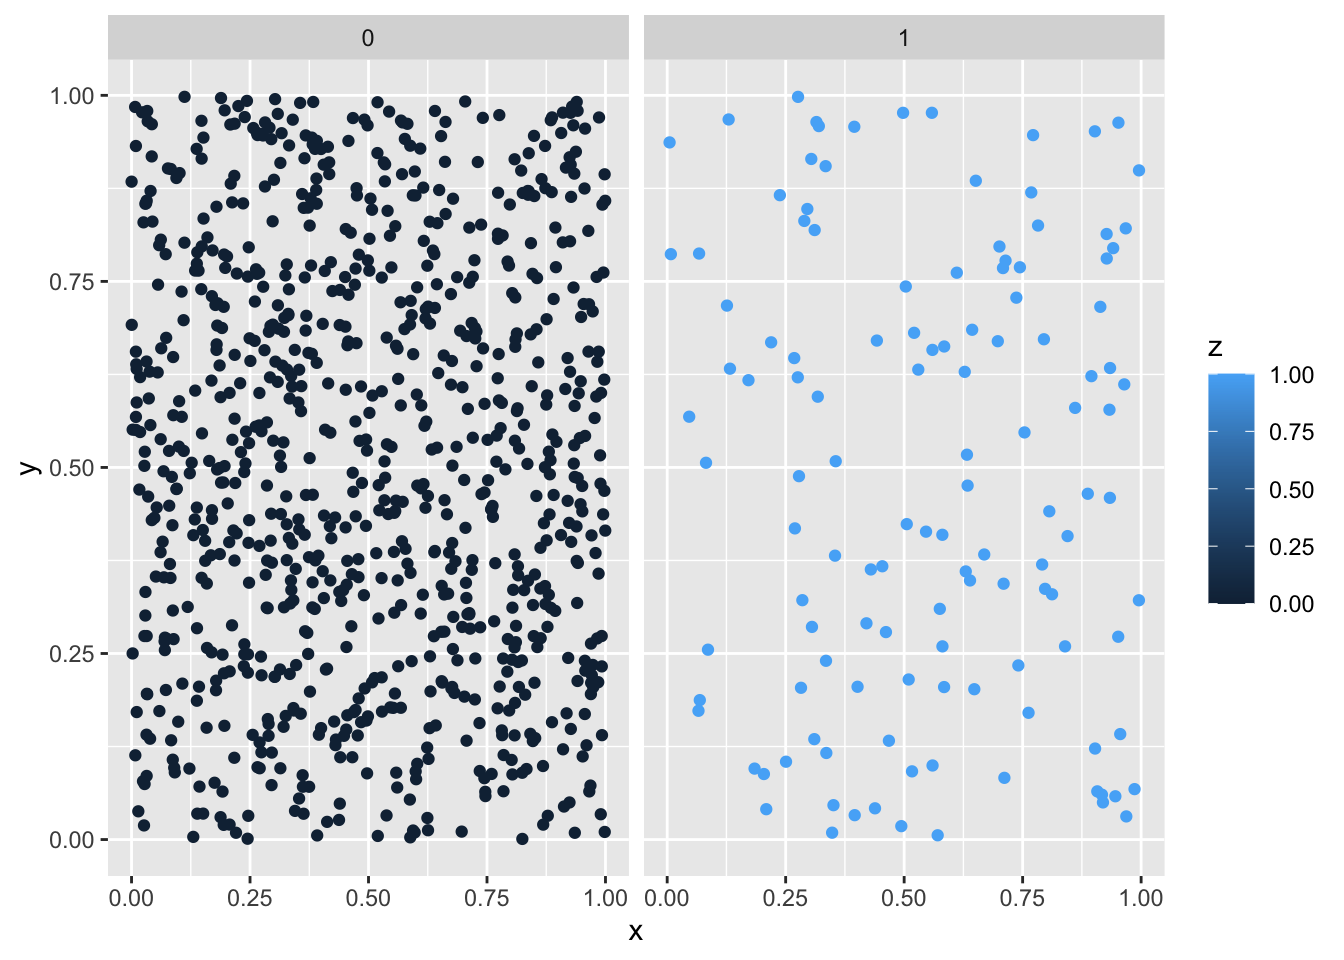
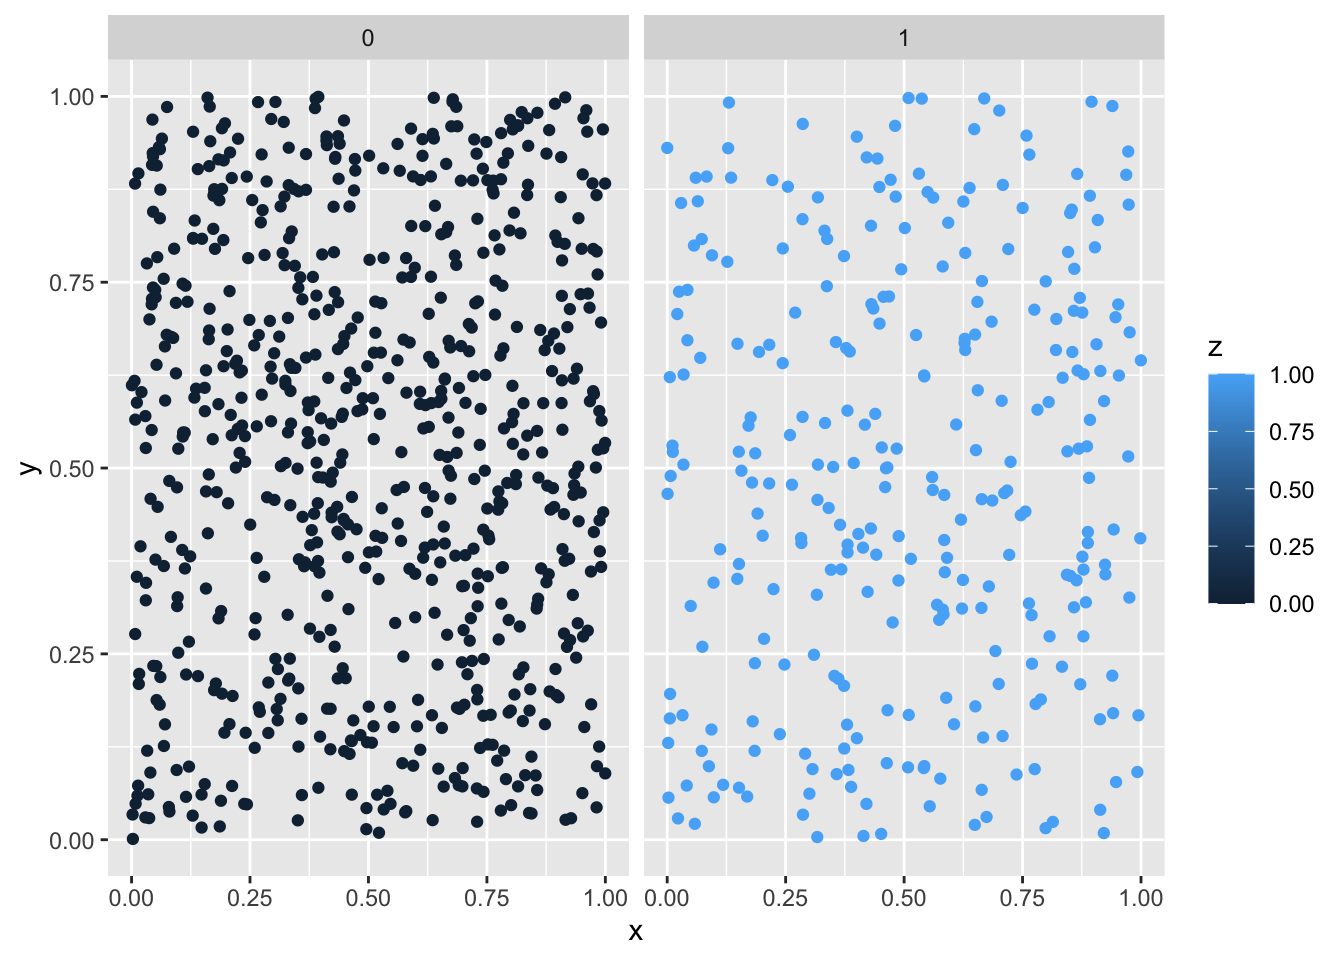
Built site for gh-pages

diff --git a/posts/csr/index.html b/posts/csr/index.html
@@ -9,7 +9,7 @@
 <meta name="author" content="Jon Zelner">
 <meta name="dcterms.date" content="2023-03-09">
 
-<title>Zelnotes - Coming to grips wih complete spatial randomness</title>
+<title>Zelnotes - Coming to grips with complete spatial randomness</title>
 <style>
 code{white-space: pre-wrap;}
 span.smallcaps{font-variant: small-caps;}
@@ -128,7 +128,7 @@ code span.wa { color: #60a0b0; font-weight: bold; font-style: italic; } /* Warni
   <script src="https://cdn.jsdelivr.net/npm/mathjax@3/es5/tex-chtml-full.js" type="text/javascript"></script>
 
 <link rel="stylesheet" href="../../styles.css">
-<meta property="og:title" content="Zelnotes - Coming to grips wih complete spatial randomness">
+<meta property="og:title" content="Zelnotes - Coming to grips with complete spatial randomness">
 <meta property="og:description" content="The point of this tutorial is to introduce you to two key, but related, concepts in spatial analysis:">
 <meta property="og:image" content="https://zelnotes.io/posts/csr/clustered_figure.png">
 <meta property="og:site-name" content="Zelnotes">
@@ -142,7 +142,7 @@ code span.wa { color: #60a0b0; font-weight: bold; font-style: italic; } /* Warni
   <header id="quarto-header" class="headroom fixed-top">
   <nav class="quarto-secondary-nav" data-bs-toggle="collapse" data-bs-target="#quarto-sidebar" aria-controls="quarto-sidebar" aria-expanded="false" aria-label="Toggle sidebar navigation" onclick="if (window.quartoToggleHeadroom) { window.quartoToggleHeadroom(); }">
     <div class="container-fluid d-flex justify-content-between">
-      <h1 class="quarto-secondary-nav-title">Coming to grips wih complete spatial randomness</h1>
+      <h1 class="quarto-secondary-nav-title">Coming to grips with complete spatial randomness</h1>
       <button type="button" class="quarto-btn-toggle btn" aria-label="Show secondary navigation">
         <i class="bi bi-chevron-right"></i>
       </button>
@@ -212,11 +212,12 @@ code span.wa { color: #60a0b0; font-weight: bold; font-style: italic; } /* Warni
   <li><a href="#calculating-morans-i" id="toc-calculating-morans-i" class="nav-link" data-scroll-target="#calculating-morans-i">Calculating Moran’s I</a></li>
   <li><a href="#plotting" id="toc-plotting" class="nav-link" data-scroll-target="#plotting">Plotting</a></li>
   </ul></li>
-  <li><a href="#permutation-testing" id="toc-permutation-testing" class="nav-link" data-scroll-target="#permutation-testing">Permutation testing</a>
+  <li><a href="#assessing-how-structured-the-data-are" id="toc-assessing-how-structured-the-data-are" class="nav-link" data-scroll-target="#assessing-how-structured-the-data-are">Assessing how structured the data are</a>
   <ul class="collapse">
   <li><a href="#permuting-the-data" id="toc-permuting-the-data" class="nav-link" data-scroll-target="#permuting-the-data">Permuting the data</a></li>
-  </ul></li>
+  <li><a href="#generate-some-data-1" id="toc-generate-some-data-1" class="nav-link" data-scroll-target="#generate-some-data-1">Generate Some Data</a></li>
   <li><a href="#comparing-randomized-data-to-observed-data" id="toc-comparing-randomized-data-to-observed-data" class="nav-link" data-scroll-target="#comparing-randomized-data-to-observed-data">Comparing randomized data to observed data</a></li>
+  </ul></li>
   </ul>
 </nav>
     </div>
@@ -225,7 +226,7 @@ code span.wa { color: #60a0b0; font-weight: bold; font-style: italic; } /* Warni
 
 <header id="title-block-header" class="quarto-title-block default">
 <div class="quarto-title">
-<div class="quarto-title-block"><div><h1 class="title d-none d-lg-block">Coming to grips wih complete spatial randomness</h1><button type="button" class="btn code-tools-button" id="quarto-code-tools-source" data-quarto-source-url="https://github.com/jzelner/zelnotes/blob/main/posts/csr/index.qmd"><i class="bi"></i> Code</button></div></div>
+<div class="quarto-title-block"><div><h1 class="title d-none d-lg-block">Coming to grips with complete spatial randomness</h1><button type="button" class="btn code-tools-button" id="quarto-code-tools-source" data-quarto-source-url="https://github.com/jzelner/zelnotes/blob/main/posts/csr/index.qmd"><i class="bi"></i> Code</button></div></div>
 </div>
 
 
@@ -288,7 +289,7 @@ code span.wa { color: #60a0b0; font-weight: bold; font-style: italic; } /* Warni
 </div>
 <p>When the values of both of these parameters are high, the probability of having a positive case should be greatest in the top-right corner of the square. Lets take a look and see if this is the case:</p>
 <div class="cell">
-<div class="sourceCode cell-code" id="cb3"><pre class="sourceCode r code-with-copy"><code class="sourceCode r"><span id="cb3-1"><a href="#cb3-1" aria-hidden="true" tabindex="-1"></a>df <span class="ot">&lt;-</span> <span class="fu">clusteredOutcomeData</span>(<span class="fl">0.01</span>, <span class="dv">10</span>, <span class="dv">10</span>, <span class="dv">1000</span>)</span>
+<div class="sourceCode cell-code" id="cb3"><pre class="sourceCode r code-with-copy"><code class="sourceCode r"><span id="cb3-1"><a href="#cb3-1" aria-hidden="true" tabindex="-1"></a>df <span class="ot">&lt;-</span> <span class="fu">clusteredOutcomeData</span>(<span class="fl">0.05</span>, <span class="dv">5</span>, <span class="dv">10</span>, <span class="dv">1000</span>)</span>
 <span id="cb3-2"><a href="#cb3-2" aria-hidden="true" tabindex="-1"></a>g <span class="ot">&lt;-</span> <span class="fu">ggplot</span>(df, <span class="fu">aes</span>(<span class="at">x =</span> x, <span class="at">y =</span> y)) <span class="sc">+</span> <span class="fu">geom_point</span>(<span class="fu">aes</span>(<span class="at">colour =</span> z)) <span class="sc">+</span> <span class="fu">facet_wrap</span>(<span class="sc">~</span>z)</span>
 <span id="cb3-3"><a href="#cb3-3" aria-hidden="true" tabindex="-1"></a><span class="fu">plot</span>(g)</span></code><button title="Copy to Clipboard" class="code-copy-button"><i class="bi"></i></button></pre></div>
 <div class="cell-output-display">
@@ -306,7 +307,7 @@ Try making some patterns!
 </div>
 </div>
 <div class="callout-body-container callout-body">
-<p>Play with the values of <code>base_p</code>, <code>or_x</code> and <code>or_y</code> above to get a feel for how these parameters impact the spatial patterning of the outcome.</p>
+<p>Play with the values of <code>base_p</code>, <code>or_x</code> and <code>or_y</code> above to get a feel for how these parameters impact the spatial patterning of the outcome. Also try 0 &lt; OR &lt; 1 for the x and y values and see how that impacts the pattern.</p>
 </div>
 </div>
 </section>
@@ -367,8 +368,8 @@ Change the number of cells
 </div>
 </section>
 </section>
-<section id="permutation-testing" class="level1">
-<h1>Permutation testing</h1>
+<section id="assessing-how-structured-the-data-are" class="level1">
+<h1>Assessing how structured the data are</h1>
 <p>This function just takes the input data and shuffles the values of the case/control outcome so that they no longer have a spatial pattern:</p>
 <div class="cell">
 <div class="sourceCode cell-code" id="cb7"><pre class="sourceCode r code-with-copy"><code class="sourceCode r"><span id="cb7-1"><a href="#cb7-1" aria-hidden="true" tabindex="-1"></a>randomizeOutcome <span class="ot">&lt;-</span> <span class="cf">function</span>(df) {</span>
@@ -400,34 +401,60 @@ Change the number of cells
 <section id="permuting-the-data" class="level2">
 <h2 class="anchored" data-anchor-id="permuting-the-data">Permuting the data</h2>
 <p>Here’s where the rubber meets the road 🛣. We will repeat the randomization above a large number of times (careful, as the number of trials increases, so does the runtime), save the value of Moran’s I for each randomized dataset, and then compare the randomized values to the ‘true’ one.</p>
+</section>
+<section id="generate-some-data-1" class="level2">
+<h2 class="anchored" data-anchor-id="generate-some-data-1">Generate Some Data</h2>
+<p>First, we’ll generate and visualize the input data again:</p>
 <div class="cell">
-<div class="sourceCode cell-code" id="cb10"><pre class="sourceCode r code-with-copy"><code class="sourceCode r"><span id="cb10-1"><a href="#cb10-1" aria-hidden="true" tabindex="-1"></a>n_trials <span class="ot">&lt;-</span> <span class="dv">500</span></span>
-<span id="cb10-2"><a href="#cb10-2" aria-hidden="true" tabindex="-1"></a>mi_vals <span class="ot">&lt;-</span> <span class="fu">rep</span>(<span class="dv">0</span>, n_trials)</span>
-<span id="cb10-3"><a href="#cb10-3" aria-hidden="true" tabindex="-1"></a><span class="cf">for</span> (i <span class="cf">in</span> <span class="dv">1</span><span class="sc">:</span>n_trials) {</span>
-<span id="cb10-4"><a href="#cb10-4" aria-hidden="true" tabindex="-1"></a>    random_df <span class="ot">&lt;-</span> <span class="fu">randomizeOutcome</span>(df)</span>
-<span id="cb10-5"><a href="#cb10-5" aria-hidden="true" tabindex="-1"></a>    pg <span class="ot">&lt;-</span> <span class="fu">pointToGrid</span>(random_df)</span>
-<span id="cb10-6"><a href="#cb10-6" aria-hidden="true" tabindex="-1"></a>    mi_vals[i] <span class="ot">&lt;-</span> <span class="fu">moranFromSF</span>(pg<span class="sc">$</span>p, pg)</span>
-<span id="cb10-7"><a href="#cb10-7" aria-hidden="true" tabindex="-1"></a>}</span></code><button title="Copy to Clipboard" class="code-copy-button"><i class="bi"></i></button></pre></div>
+<div class="sourceCode cell-code" id="cb10"><pre class="sourceCode r code-with-copy"><code class="sourceCode r"><span id="cb10-1"><a href="#cb10-1" aria-hidden="true" tabindex="-1"></a>df <span class="ot">&lt;-</span> <span class="fu">clusteredOutcomeData</span>(<span class="fl">0.1</span>, <span class="dv">5</span>, <span class="dv">5</span>, <span class="dv">1000</span>)</span>
+<span id="cb10-2"><a href="#cb10-2" aria-hidden="true" tabindex="-1"></a>pg <span class="ot">&lt;-</span> <span class="fu">pointToGrid</span>(df)</span>
+<span id="cb10-3"><a href="#cb10-3" aria-hidden="true" tabindex="-1"></a>data_mi <span class="ot">&lt;-</span> <span class="fu">round</span>(<span class="fu">moranFromSF</span>(pg<span class="sc">$</span>p, pg), <span class="dv">2</span>)</span>
+<span id="cb10-4"><a href="#cb10-4" aria-hidden="true" tabindex="-1"></a>g <span class="ot">&lt;-</span> <span class="fu">ggplot</span>(pg) <span class="sc">+</span> <span class="fu">geom_sf</span>(<span class="fu">aes</span>(<span class="at">fill =</span> p)) <span class="sc">+</span> <span class="fu">scale_fill_viridis_c</span>() <span class="sc">+</span> <span class="fu">ggtitle</span>(<span class="fu">paste0</span>(<span class="st">"Moran's I="</span>,</span>
+<span id="cb10-5"><a href="#cb10-5" aria-hidden="true" tabindex="-1"></a>    data_mi))</span>
+<span id="cb10-6"><a href="#cb10-6" aria-hidden="true" tabindex="-1"></a><span class="fu">plot</span>(g)</span></code><button title="Copy to Clipboard" class="code-copy-button"><i class="bi"></i></button></pre></div>
+<div class="cell-output-display">
+<p><img src="index_files/figure-html/unnamed-chunk-10-1.png" class="img-fluid" width="672"></p>
+</div>
+</div>
+<p>Now we’ll generate a large number of datasets which have the same number of cases and controls and where the points are all in the same locations, but the geographic distribution of case and control statuses is randomly distributed:</p>
+<div class="cell">
+<div class="sourceCode cell-code" id="cb11"><pre class="sourceCode r code-with-copy"><code class="sourceCode r"><span id="cb11-1"><a href="#cb11-1" aria-hidden="true" tabindex="-1"></a>n_trials <span class="ot">&lt;-</span> <span class="dv">1000</span></span>
+<span id="cb11-2"><a href="#cb11-2" aria-hidden="true" tabindex="-1"></a>mi_vals <span class="ot">&lt;-</span> <span class="fu">rep</span>(<span class="dv">0</span>, n_trials)</span>
+<span id="cb11-3"><a href="#cb11-3" aria-hidden="true" tabindex="-1"></a>g <span class="ot">&lt;-</span> <span class="fu">st_as_sf</span>(df, <span class="at">coords =</span> <span class="fu">c</span>(<span class="st">"x"</span>, <span class="st">"y"</span>))</span>
+<span id="cb11-4"><a href="#cb11-4" aria-hidden="true" tabindex="-1"></a>a <span class="ot">&lt;-</span> <span class="fu">st_make_grid</span>(g, <span class="at">what =</span> <span class="st">"polygons"</span>, <span class="at">n =</span> <span class="dv">5</span>) <span class="sc">%&gt;%</span></span>
+<span id="cb11-5"><a href="#cb11-5" aria-hidden="true" tabindex="-1"></a>    st_sf</span>
+<span id="cb11-6"><a href="#cb11-6" aria-hidden="true" tabindex="-1"></a>a<span class="sc">$</span>cell <span class="ot">&lt;-</span> <span class="dv">1</span><span class="sc">:</span><span class="fu">nrow</span>(a)</span>
+<span id="cb11-7"><a href="#cb11-7" aria-hidden="true" tabindex="-1"></a>pp <span class="ot">&lt;-</span> <span class="fu">st_join</span>(g, a, st_intersects) <span class="sc">%&gt;%</span></span>
+<span id="cb11-8"><a href="#cb11-8" aria-hidden="true" tabindex="-1"></a>    as_tibble <span class="sc">%&gt;%</span></span>
+<span id="cb11-9"><a href="#cb11-9" aria-hidden="true" tabindex="-1"></a>    <span class="fu">select</span>(z, cell)</span>
+<span id="cb11-10"><a href="#cb11-10" aria-hidden="true" tabindex="-1"></a></span>
+<span id="cb11-11"><a href="#cb11-11" aria-hidden="true" tabindex="-1"></a>nb <span class="ot">&lt;-</span> <span class="fu">poly2nb</span>(a)</span>
+<span id="cb11-12"><a href="#cb11-12" aria-hidden="true" tabindex="-1"></a>lw <span class="ot">&lt;-</span> <span class="fu">nb2listw</span>(nb, <span class="at">style =</span> <span class="st">"B"</span>, <span class="at">zero.policy =</span> <span class="cn">TRUE</span>)</span>
+<span id="cb11-13"><a href="#cb11-13" aria-hidden="true" tabindex="-1"></a></span>
+<span id="cb11-14"><a href="#cb11-14" aria-hidden="true" tabindex="-1"></a><span class="cf">for</span> (i <span class="cf">in</span> <span class="dv">1</span><span class="sc">:</span>n_trials) {</span>
+<span id="cb11-15"><a href="#cb11-15" aria-hidden="true" tabindex="-1"></a>    random_df <span class="ot">&lt;-</span> <span class="fu">randomizeOutcome</span>(pp) <span class="sc">%&gt;%</span></span>
+<span id="cb11-16"><a href="#cb11-16" aria-hidden="true" tabindex="-1"></a>        <span class="fu">group_by</span>(cell) <span class="sc">%&gt;%</span></span>
+<span id="cb11-17"><a href="#cb11-17" aria-hidden="true" tabindex="-1"></a>        <span class="fu">summarize</span>(<span class="at">p =</span> <span class="fu">sum</span>(z)<span class="sc">/</span><span class="fu">n</span>())</span>
+<span id="cb11-18"><a href="#cb11-18" aria-hidden="true" tabindex="-1"></a>    tmp_pg <span class="ot">&lt;-</span> <span class="fu">left_join</span>(a, random_df)</span>
+<span id="cb11-19"><a href="#cb11-19" aria-hidden="true" tabindex="-1"></a>    mi_vals[i] <span class="ot">&lt;-</span> <span class="fu">moran</span>(tmp_pg<span class="sc">$</span>p, lw, <span class="fu">length</span>(nb), <span class="fu">Szero</span>(lw), <span class="at">NAOK =</span> <span class="cn">TRUE</span>)<span class="sc">$</span>I</span>
+<span id="cb11-20"><a href="#cb11-20" aria-hidden="true" tabindex="-1"></a>}</span></code><button title="Copy to Clipboard" class="code-copy-button"><i class="bi"></i></button></pre></div>
 </div>
 </section>
-</section>
-<section id="comparing-randomized-data-to-observed-data" class="level1">
-<h1>Comparing randomized data to observed data</h1>
+<section id="comparing-randomized-data-to-observed-data" class="level2">
+<h2 class="anchored" data-anchor-id="comparing-randomized-data-to-observed-data">Comparing randomized data to observed data</h2>
 <p>Let’s re-generate the clustered data from before and then compare it to some randomized values:</p>
 <div class="cell">
-<div class="sourceCode cell-code" id="cb11"><pre class="sourceCode r code-with-copy"><code class="sourceCode r"><span id="cb11-1"><a href="#cb11-1" aria-hidden="true" tabindex="-1"></a>df <span class="ot">&lt;-</span> <span class="fu">clusteredOutcomeData</span>(<span class="fl">0.01</span>, <span class="dv">10</span>, <span class="dv">10</span>, <span class="dv">1000</span>)</span>
-<span id="cb11-2"><a href="#cb11-2" aria-hidden="true" tabindex="-1"></a>pg <span class="ot">&lt;-</span> <span class="fu">pointToGrid</span>(df)</span>
-<span id="cb11-3"><a href="#cb11-3" aria-hidden="true" tabindex="-1"></a>data_mi <span class="ot">&lt;-</span> <span class="fu">round</span>(<span class="fu">moranFromSF</span>(pg<span class="sc">$</span>p, pg), <span class="dv">2</span>)</span>
-<span id="cb11-4"><a href="#cb11-4" aria-hidden="true" tabindex="-1"></a></span>
-<span id="cb11-5"><a href="#cb11-5" aria-hidden="true" tabindex="-1"></a>p <span class="ot">&lt;-</span> <span class="fu">sum</span>(mi_vals <span class="sc">&gt;=</span> data_mi)<span class="sc">/</span><span class="fu">length</span>(mi_vals)</span>
-<span id="cb11-6"><a href="#cb11-6" aria-hidden="true" tabindex="-1"></a>g <span class="ot">&lt;-</span> <span class="fu">ggplot</span>() <span class="sc">+</span> <span class="fu">geom_histogram</span>(<span class="fu">aes</span>(<span class="at">x =</span> mi_vals), <span class="at">bins =</span> <span class="dv">50</span>) <span class="sc">+</span> <span class="fu">xlab</span>(<span class="st">"Moran's I value"</span>) <span class="sc">+</span></span>
-<span id="cb11-7"><a href="#cb11-7" aria-hidden="true" tabindex="-1"></a>    <span class="fu">geom_vline</span>(<span class="at">xintercept =</span> data_mi, <span class="at">colour =</span> <span class="st">"red"</span>) <span class="sc">+</span> <span class="fu">geom_vline</span>(<span class="at">xintercept =</span> <span class="fu">median</span>(mi_vals),</span>
-<span id="cb11-8"><a href="#cb11-8" aria-hidden="true" tabindex="-1"></a>    <span class="at">colour =</span> <span class="st">"green"</span>) <span class="sc">+</span> <span class="fu">ggtitle</span>(<span class="fu">paste0</span>(<span class="st">"Randomized values of Moran's I vs. observed (pr &lt;="</span>,</span>
-<span id="cb11-9"><a href="#cb11-9" aria-hidden="true" tabindex="-1"></a>    p, <span class="st">")"</span>))</span>
-<span id="cb11-10"><a href="#cb11-10" aria-hidden="true" tabindex="-1"></a></span>
-<span id="cb11-11"><a href="#cb11-11" aria-hidden="true" tabindex="-1"></a><span class="fu">plot</span>(g)</span></code><button title="Copy to Clipboard" class="code-copy-button"><i class="bi"></i></button></pre></div>
+<div class="sourceCode cell-code" id="cb12"><pre class="sourceCode r code-with-copy"><code class="sourceCode r"><span id="cb12-1"><a href="#cb12-1" aria-hidden="true" tabindex="-1"></a>data_mi <span class="ot">&lt;-</span> <span class="fu">round</span>(<span class="fu">moranFromSF</span>(pg<span class="sc">$</span>p, pg), <span class="dv">2</span>)</span>
+<span id="cb12-2"><a href="#cb12-2" aria-hidden="true" tabindex="-1"></a></span>
+<span id="cb12-3"><a href="#cb12-3" aria-hidden="true" tabindex="-1"></a>p <span class="ot">&lt;-</span> <span class="fu">sum</span>(mi_vals <span class="sc">&gt;=</span> data_mi)<span class="sc">/</span><span class="fu">length</span>(mi_vals)</span>
+<span id="cb12-4"><a href="#cb12-4" aria-hidden="true" tabindex="-1"></a>g <span class="ot">&lt;-</span> <span class="fu">ggplot</span>() <span class="sc">+</span> <span class="fu">geom_histogram</span>(<span class="fu">aes</span>(<span class="at">x =</span> mi_vals), <span class="at">bins =</span> <span class="dv">50</span>) <span class="sc">+</span> <span class="fu">xlab</span>(<span class="st">"Moran's I value"</span>) <span class="sc">+</span></span>
+<span id="cb12-5"><a href="#cb12-5" aria-hidden="true" tabindex="-1"></a>    <span class="fu">geom_vline</span>(<span class="at">xintercept =</span> data_mi, <span class="at">colour =</span> <span class="st">"red"</span>) <span class="sc">+</span> <span class="fu">geom_vline</span>(<span class="at">xintercept =</span> <span class="fu">median</span>(mi_vals),</span>
+<span id="cb12-6"><a href="#cb12-6" aria-hidden="true" tabindex="-1"></a>    <span class="at">colour =</span> <span class="st">"green"</span>) <span class="sc">+</span> <span class="fu">ggtitle</span>(<span class="fu">paste0</span>(<span class="st">"Randomized values of Moran's I vs. observed (pr &lt;="</span>,</span>
+<span id="cb12-7"><a href="#cb12-7" aria-hidden="true" tabindex="-1"></a>    p, <span class="st">")"</span>))</span>
+<span id="cb12-8"><a href="#cb12-8" aria-hidden="true" tabindex="-1"></a></span>
+<span id="cb12-9"><a href="#cb12-9" aria-hidden="true" tabindex="-1"></a><span class="fu">plot</span>(g)</span></code><button title="Copy to Clipboard" class="code-copy-button"><i class="bi"></i></button></pre></div>
 <div class="cell-output-display">
-<p><img src="index_files/figure-html/unnamed-chunk-11-1.png" class="img-fluid" width="672"></p>
+<p><img src="index_files/figure-html/unnamed-chunk-12-1.png" class="img-fluid" width="672"></p>
 </div>
 </div>
 <div class="callout-tip callout callout-style-default callout-captioned">
@@ -446,16 +473,17 @@ Try patterns with weak or noisy clustering
 
 
 </section>
+</section>
 
 <div id="quarto-appendix" class="default"><section class="quarto-appendix-contents"><h2 class="anchored quarto-appendix-heading">Citation</h2><div><div class="quarto-appendix-secondary-label">BibTeX citation:</div><pre class="sourceCode code-with-copy quarto-appendix-bibtex"><code class="sourceCode bibtex">@online{zelner2023,
   author = {Jon Zelner},
-  title = {Coming to Grips Wih Complete Spatial Randomness},
+  title = {Coming to Grips with Complete Spatial Randomness},
   date = {2023-03-09},
   url = {https://zelnotes.io/posts/csr},
   langid = {en}
 }
 </code><button title="Copy to Clipboard" class="code-copy-button"><i class="bi"></i></button></pre><div class="quarto-appendix-secondary-label">For attribution, please cite this work as:</div><div id="ref-zelner2023" class="csl-entry quarto-appendix-citeas" role="doc-biblioentry">
-Jon Zelner. 2023. <span>“Coming to Grips Wih Complete Spatial
+Jon Zelner. 2023. <span>“Coming to Grips with Complete Spatial
 Randomness.”</span> March 9, 2023. <a href="https://zelnotes.io/posts/csr">https://zelnotes.io/posts/csr</a>.
 </div></div></section></div></main> <!-- /main -->
 <script id="quarto-html-after-body" type="application/javascript">

diff --git a/posts/index.html b/posts/index.html
@@ -195,14 +195,14 @@ ul.task-list li input[type="checkbox"] {
 
 <div class="quarto-listing quarto-listing-container-default" id="listing-listing">
 <div class="list quarto-listing-default">
-<div class="quarto-post image-right" data-index="0" data-listing-date-sort="1678338000000" data-listing-file-modified-sort="1678375261023" data-listing-reading-time-sort="5.15">
+<div class="quarto-post image-right" data-index="0" data-listing-date-sort="1678338000000" data-listing-file-modified-sort="1678385211661" data-listing-reading-time-sort="5.86">
 <div class="thumbnail">
 <p><a href="../posts/csr/index.html"> <img src="../posts/csr/clustered_figure.png" class="thumnail-image"> </a></p>
 </div>
 <div class="body">
 <a href="../posts/csr/index.html">
 <h3 class="no-anchor listing-title">
-Coming to grips wih complete spatial randomness
+Coming to grips with complete spatial randomness
 </h3>
 <div class="listing-subtitle">
 
